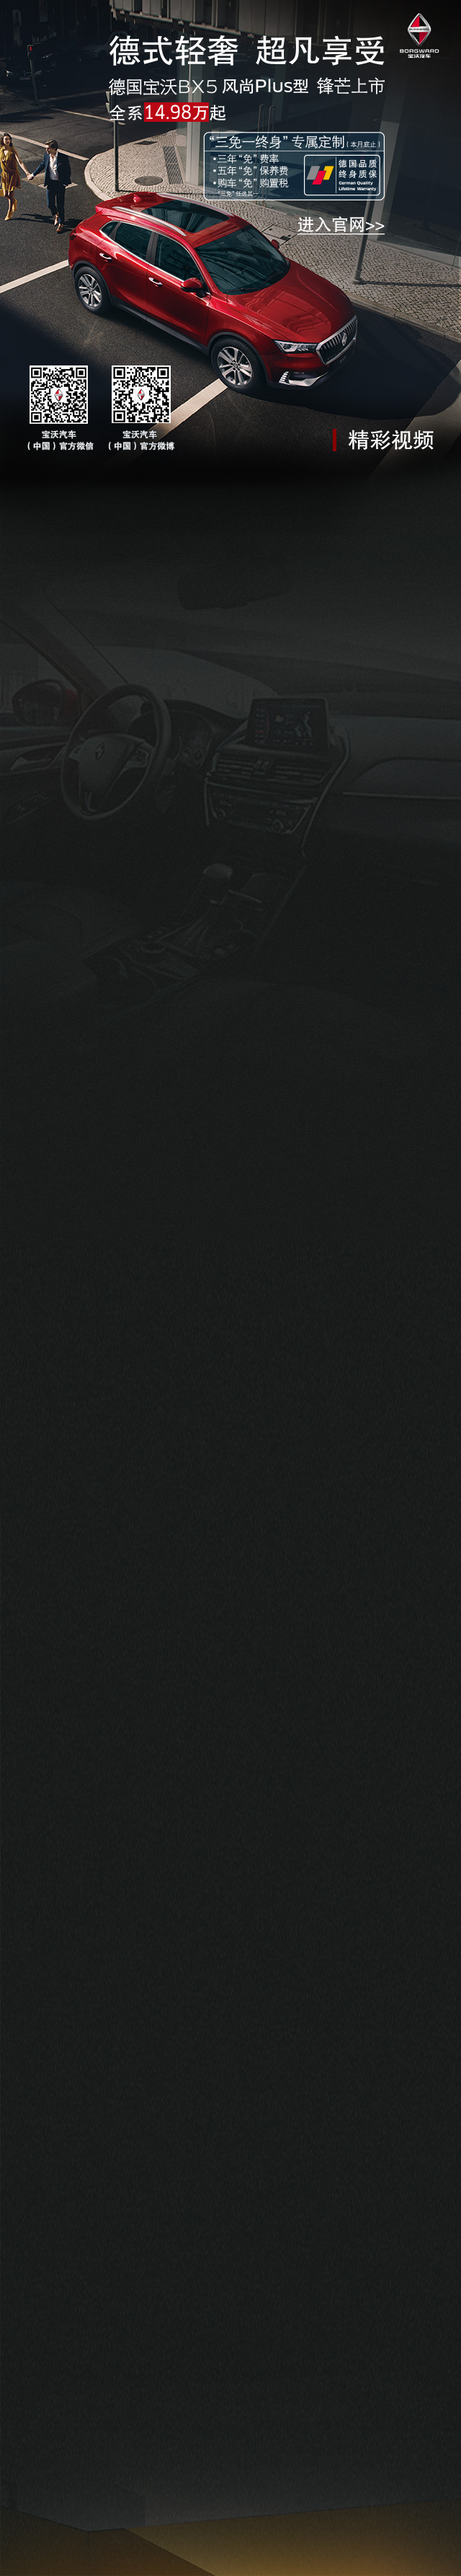
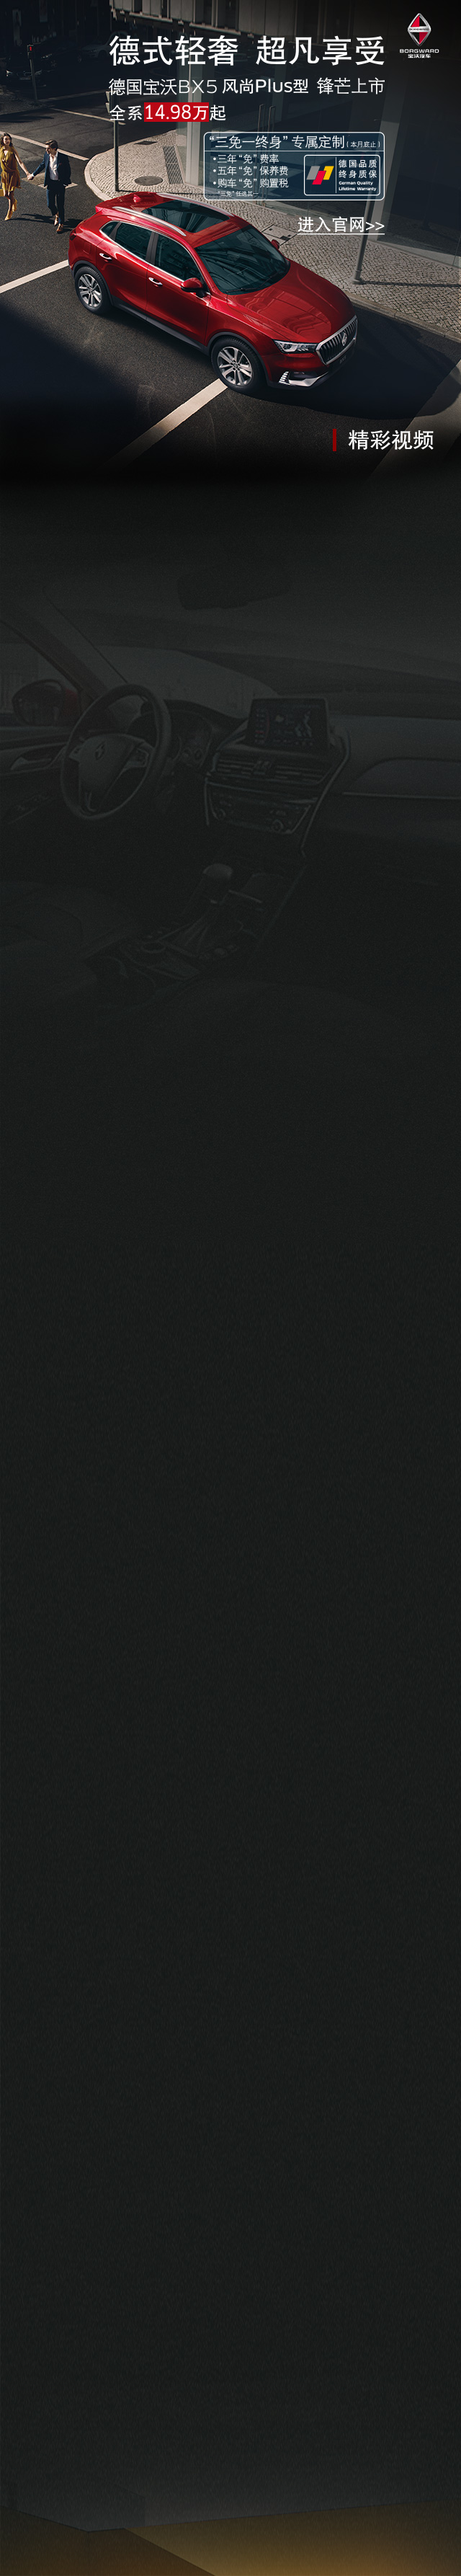
更新

Changed region(s): [[0.25, 0.1242, 0.375, 0.1863], [0.0625, 0.1242, 0.1875, 0.1863]]

diff --git a/borgwardbx5/css/bwo.css b/borgwardbx5/css/bwo.css
@@ -3,6 +3,8 @@ img{width:100%;display: block}
 input{border:none;}
 .bwo{position:relative;background: url(../images/bg.jpg) no-repeat;height:89.35rem; background-size:100%;}
 .jr{position: absolute;top:7.3rem; right:2.5rem;width:3.1rem;height:0.775rem}
+.ewm{position:absolute;top:12.675rem; left:1.0rem;width:5.6rem;height:3.075rem;}
+.ewm span{float:left;width:2.35rem;margin-right:0.25rem;}
 .jr a{ display:inline-block;width:3.1rem;height:0.775rem}
 .jcVideo{position:absolute;top:16.25rem;left:0.975rem;}
 .jcVideo h2,.login h2,.carType h2,.carImg h2,.history h2{border-left:2px solid #8a0000; padding-left:0.5rem;font-size:0.7rem;color:#fff;}

diff --git a/borgwardbx5/html/bwo.html b/borgwardbx5/html/bwo.html
@@ -19,6 +19,10 @@
 <body>
     <div class="bwo">
         <div class="jr"><a href="http://i.ttge.com/svn/bx5/wap/index.html"></a></div>
+		<div class="ewm">
+			<span><img src="./images/wx.png"/></span>
+			<span><img src="./images/wb.png"/></span>
+		</div>
         <!-- 精彩视频 -->
         <div class="jcVideo">
             <div class="vid-box">
